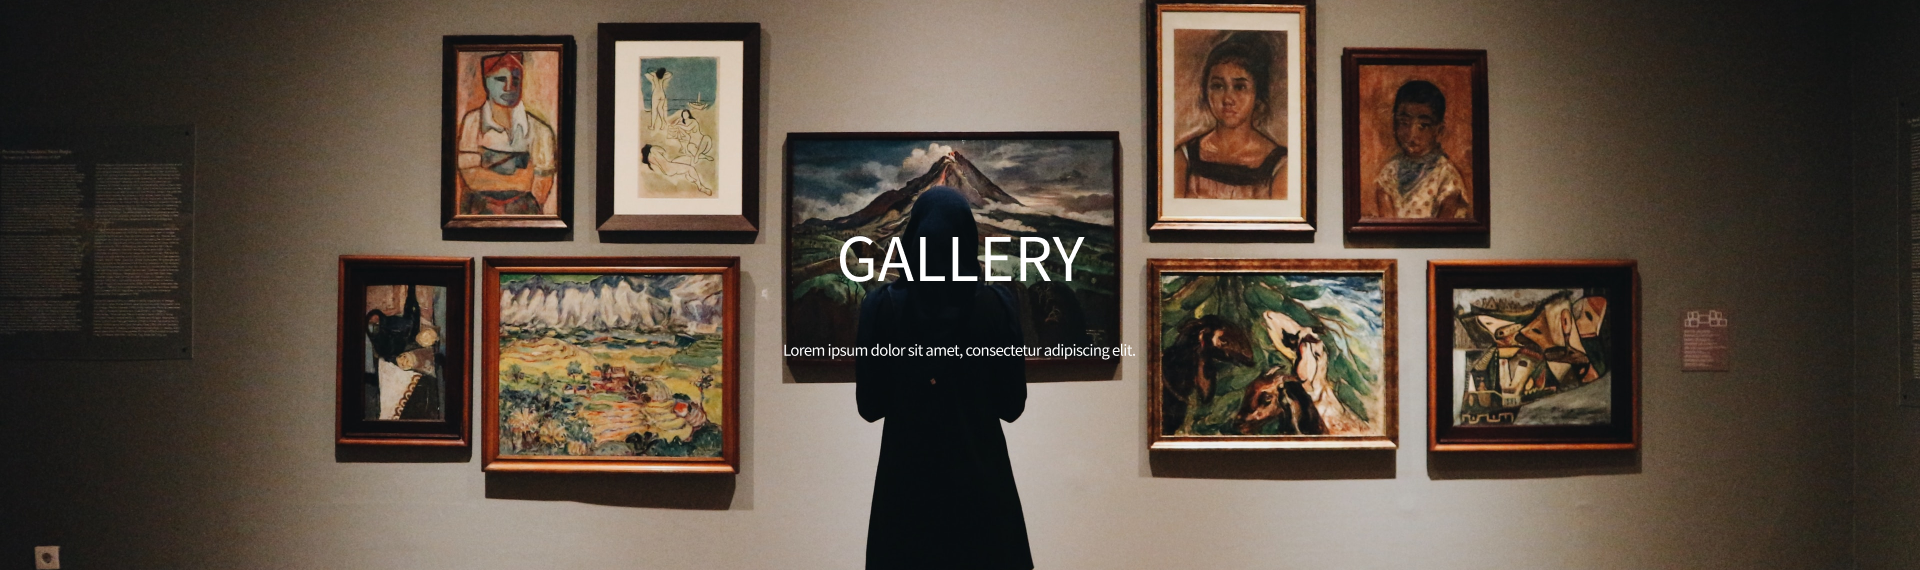
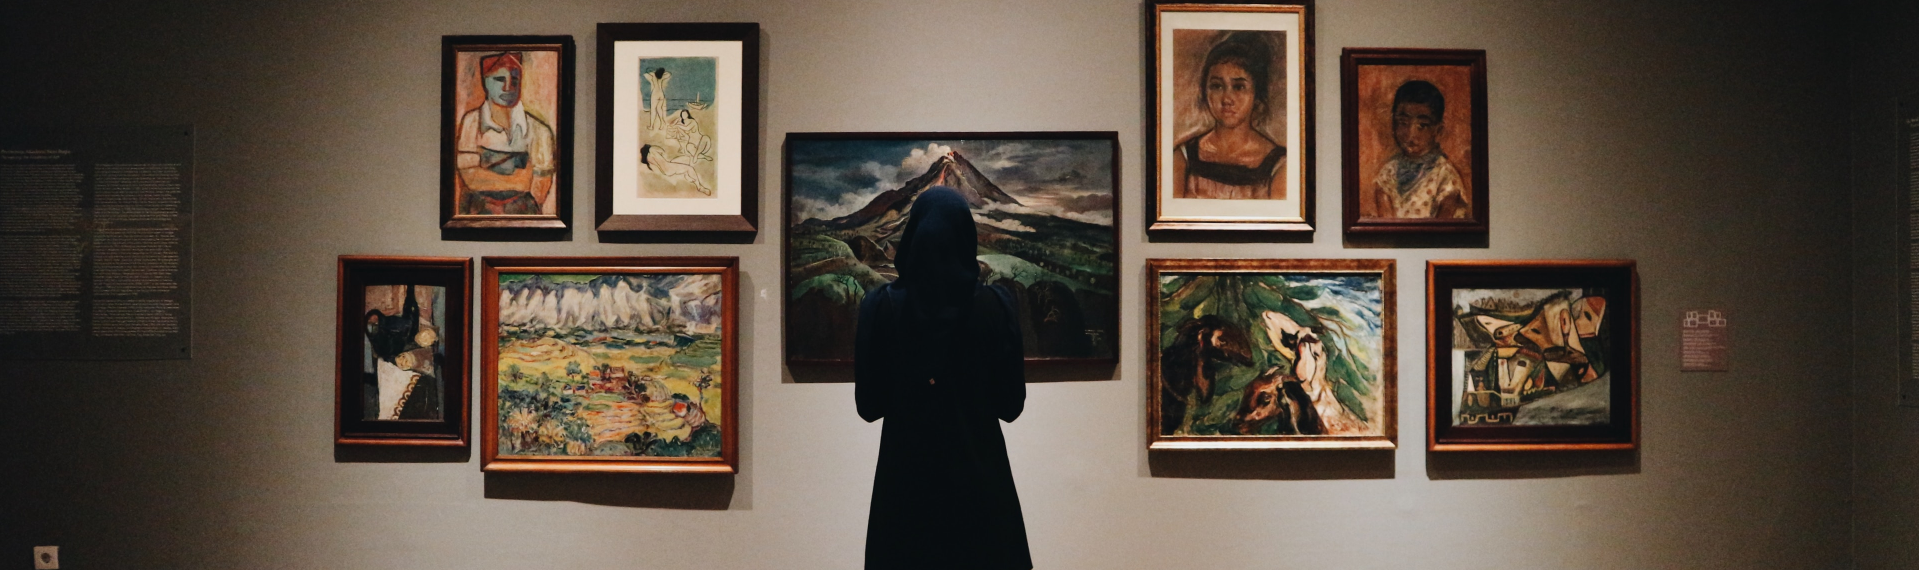
겔러리 페이지 추가

diff --git a/src/main/resources/static/asset/js/gallery.js b/src/main/resources/static/asset/js/gallery.js
@@ -1,0 +1,31 @@
+(() => {
+    let galleryStartIndex = 1;
+    let galleryEndIndex = 97;
+
+    let setGallery = () => {
+        // 1. 12개의 canvas 생성 후 삽입
+        // 2. 각 canvas에 이미지 그리기
+        for (let i = 0; i < 12; i++) {
+            if (galleryStartIndex > galleryEndIndex) {
+                document.querySelector('#getGalleryBtn').remove();
+                break;
+            } else {
+                let img = new Image();
+                img.src = `/asset/img/gallery/gallery${galleryStartIndex}.jpg`;
+
+                document.querySelector('.gallery-box').appendChild(img);
+
+                galleryStartIndex++;
+            }
+        }
+    }
+
+    document.querySelector('#getGalleryBtn').addEventListener("click", () => {
+        console.log('hi');
+        setGallery();
+    })
+
+    window.addEventListener('load', () => {
+        setGallery();
+    })
+})()

diff --git a/src/main/resources/static/asset/css/gallery.css b/src/main/resources/static/asset/css/gallery.css
@@ -1,0 +1,25 @@
+.gallery-section {
+    padding: 100px 15px;
+    max-width: 1200px;
+    margin: 0 auto;
+    width: 100%;
+}
+
+.gallery-box {
+    display: grid;
+    grid-template-columns: repeat(auto-fill, 390px);
+    justify-content: center;
+    margin: 0 auto 60px;
+}
+
+.gallery-box img {
+    width: 390px;
+    height: 390px;
+    border: 1px solid #C0AD9A;
+    cursor: pointer;
+    transition: 0.25s;
+}
+
+.gallery-box img:hover {
+    transform: scale(1.3);
+}

diff --git a/src/main/resources/static/asset/css/index.css b/src/main/resources/static/asset/css/index.css
@@ -166,10 +166,17 @@ ul {
     width: 100vw;
     height: 56.25vw;
     z-index: -1;
-    background-image: url("/asset/img/history-banner.png");
     background-position: center center;
     background-size: cover;
     background-color: rgba(0,0,0,0.52);
+}
+
+.banner-img.history {
+    background-image: url("/asset/img/history-banner.png");
+}
+
+.banner-img.gallery {
+    background-image: url("/asset/img/gallery-banner.png");
 }
 
 .banner-background {

diff --git a/src/main/java/com/kang/knu_30/controller/GalleryController.java b/src/main/java/com/kang/knu_30/controller/GalleryController.java
@@ -1,0 +1,13 @@
+package com.kang.knu_30.controller;
+
+import org.springframework.stereotype.Controller;
+import org.springframework.web.bind.annotation.GetMapping;
+
+@Controller
+public class GalleryController {
+
+    @GetMapping("/gallery")
+    public String gallery() {
+        return "gallery";
+    }
+}
